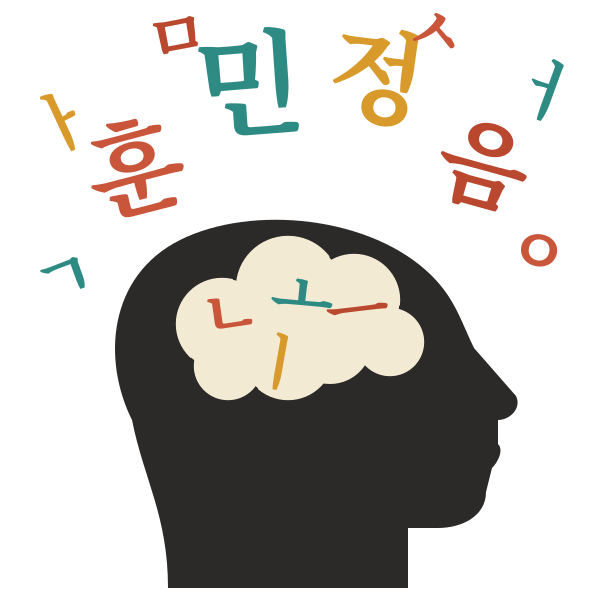
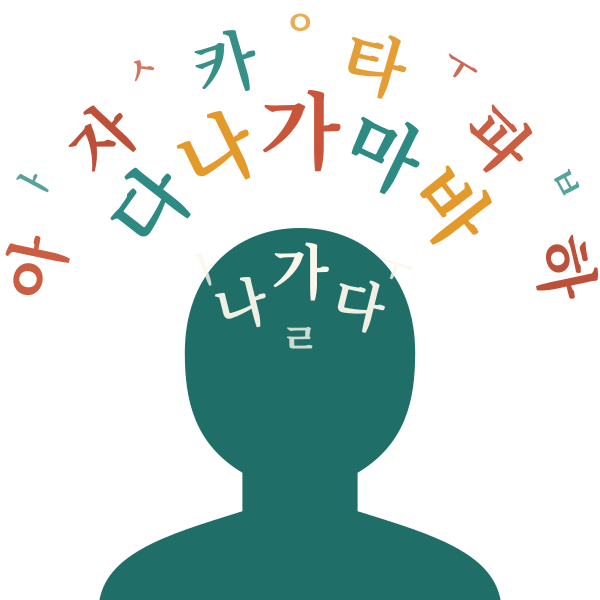
아이콘·메인 이미지를 정면 머리 + 우리말 글자가 넘쳐흐르는 그림으로 교체
Claude-Session: https://claude.ai/code/session_01BWXrJBAD2Cdvj5yyg7oiC3

diff --git a/index.html b/index.html
@@ -201,7 +201,7 @@ function bar(backTo, top, bottom){
 /* ---------- 화면 ---------- */
 function viewHome(){
   return `<div class="screen">
-    <div class="hero"><img class="bowl" src="icons/hero.png" alt="훈민정음 글자가 머릿속에서 넘쳐 나오는 모습"><h1>안다미로</h1>
+    <div class="hero"><img class="bowl" src="icons/hero.png" alt="우리말 글자가 머릿속에서 넘쳐 나오는 모습"><h1>안다미로</h1>
       <div class="hanja-line">속담 · 순우리말 배움터</div>
       <div class="def"><b>안다미로</b> : 담은 것이 넘칠 듯이 가득한 모양</div></div>
     <div class="mains">

diff --git a/sw.js b/sw.js
@@ -1,4 +1,4 @@
-const CACHE = 'andamiro-v2';
+const CACHE = 'andamiro-v3';
 const CORE = ['./', './index.html', './manifest.webmanifest', './icons/icon-192.png', './icons/icon-512.png', './icons/hero.png'];
 self.addEventListener('install', e => {
   e.waitUntil(caches.open(CACHE).then(c => c.addAll(CORE)).then(() => self.skipWaiting()));
